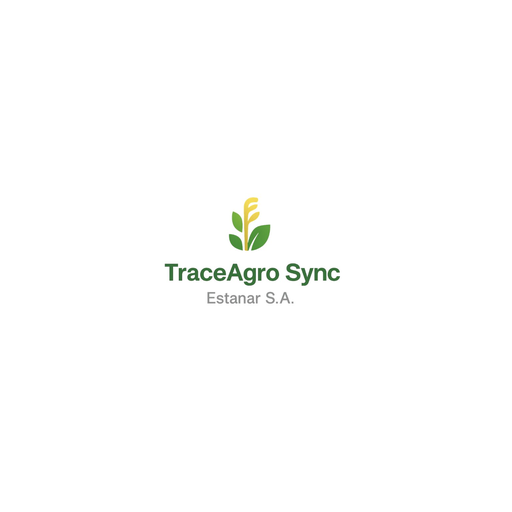
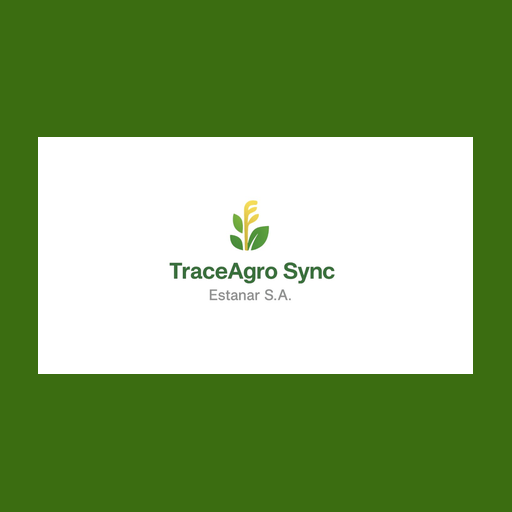
iconos fondo verde y actualizar cache

diff --git a/TraceAgro_AppsScript_v12.js b/TraceAgro_AppsScript_v12.js
@@ -1,0 +1,364 @@
+// TraceAgro Sync — Apps Script v12
+// Nuevo: sistema de usuarios con sheet individual por técnico
+// Acciones: register, login, write_cosecha, write_traslado_silo, read_cosecha, read_traslados,
+//           update_cosecha, next_asiento, update_traslado, next_asiento_traslado
+
+function doGet(e) {
+  return ContentService
+    .createTextOutput(JSON.stringify(handleRequest(e)))
+    .setMimeType(ContentService.MimeType.JSON);
+}
+function doPost(e) { return doGet(e); }
+
+function handleRequest(e) {
+  try {
+    const p = e.parameter;
+    if (!p.action) return { status: 'TraceAgro v12 OK' };
+
+    // ── Acciones de autenticación (usan sheet maestro) ──
+    if (p.action === 'register')  return registerUser(p);
+    if (p.action === 'login')     return loginUser(p);
+
+    // ── Acciones de datos (usan sheet del usuario via ssId) ──
+    if (p.action === 'write_cosecha')         return writeCosecha(p);
+    if (p.action === 'write_traslado_silo')   return writeTraslado(p);
+    if (p.action === 'read_cosecha')          return readCosecha(p);
+    if (p.action === 'read_traslados')        return readTraslados(p);
+    if (p.action === 'update_cosecha')        return updateCosecha(p);
+    if (p.action === 'next_asiento')          return nextAsiento(p);
+    if (p.action === 'update_traslado')       return updateTraslado(p);
+    if (p.action === 'next_asiento_traslado') return nextAsientoTraslado(p);
+    return { error: 'Acción desconocida: ' + p.action };
+  } catch(err) {
+    return { ok: false, error: err.message };
+  }
+}
+
+// ══════════════════════════════════════
+// USUARIOS — Registro y Login
+// ══════════════════════════════════════
+
+function getUsersSheet() {
+  const ss = SpreadsheetApp.getActiveSpreadsheet();
+  let sh = ss.getSheetByName('Usuarios');
+  if (!sh) {
+    sh = ss.insertSheet('Usuarios');
+    const headers = ['Nombre','Contraseña','SheetID','SheetURL','Fecha registro'];
+    const r = sh.getRange(1, 1, 1, headers.length);
+    r.setValues([headers]);
+    r.setBackground('#1a1a2e').setFontColor('#FFFFFF').setFontWeight('bold');
+    sh.setFrozenRows(1);
+    sh.setColumnWidths(1, headers.length, 180);
+  }
+  return sh;
+}
+
+function findUser(nombre) {
+  const sh = getUsersSheet();
+  const data = sh.getDataRange().getValues();
+  for (let i = 1; i < data.length; i++) {
+    if (String(data[i][0]).trim().toLowerCase() === nombre.trim().toLowerCase()) {
+      return { row: i + 1, nombre: String(data[i][0]).trim(), pass: String(data[i][1]), ssId: String(data[i][2]), url: String(data[i][3]) };
+    }
+  }
+  return null;
+}
+
+function registerUser(p) {
+  const nombre = (p.nombre || '').trim();
+  const pass = (p.pass || '').trim();
+  if (!nombre) return { ok: false, error: 'Nombre requerido' };
+  if (!pass || pass.length < 4) return { ok: false, error: 'La contraseña debe tener al menos 4 caracteres' };
+
+  // Verificar si ya existe
+  if (findUser(nombre)) {
+    return { ok: false, error: 'USUARIO_EXISTE', nombre };
+  }
+
+  // Buscar o crear carpeta "TraceAgro Sync" en el Drive
+  var folders = DriveApp.getFoldersByName('TraceAgro Sync');
+  var folder;
+  if (folders.hasNext()) {
+    folder = folders.next();
+  } else {
+    folder = DriveApp.createFolder('TraceAgro Sync');
+  }
+
+  // Crear nuevo Google Sheet para este técnico
+  const newSS = SpreadsheetApp.create('TraceAgro - ' + nombre);
+  const ssId = newSS.getId();
+  const ssUrl = newSS.getUrl();
+
+  // Mover el sheet a la carpeta TraceAgro Sync
+  var file = DriveApp.getFileById(ssId);
+  folder.addFile(file);
+  DriveApp.getRootFolder().removeFile(file);
+
+  // Renombrar la hoja por defecto
+  newSS.getSheets()[0].setName('Resumen');
+
+  // Guardar usuario en la hoja maestra
+  const sh = getUsersSheet();
+  sh.appendRow([nombre, pass, ssId, ssUrl, new Date().toISOString()]);
+
+  return { ok: true, nombre, ssId };
+}
+
+function loginUser(p) {
+  const nombre = (p.nombre || '').trim();
+  const pass = (p.pass || '').trim();
+  if (!nombre) return { ok: false, error: 'Nombre requerido' };
+  if (!pass) return { ok: false, error: 'Contraseña requerida' };
+
+  const user = findUser(nombre);
+  if (!user) return { ok: false, error: 'USUARIO_NO_EXISTE' };
+  if (user.pass !== pass) return { ok: false, error: 'PASS_INCORRECTA' };
+
+  return { ok: true, nombre: user.nombre, ssId: user.ssId };
+}
+
+// ══════════════════════════════════════
+// HELPERS
+// ══════════════════════════════════════
+
+function getUserSS(p) {
+  // Todas las acciones de datos reciben ssId para abrir el sheet del usuario
+  const ssId = p.ssId;
+  if (!ssId) throw new Error('Falta ssId — iniciá sesión de nuevo');
+  return SpreadsheetApp.openById(ssId);
+}
+
+function getSheet(ss, name, headers, color) {
+  let sh = ss.getSheetByName(name);
+  if (!sh) {
+    sh = ss.insertSheet(name);
+    const r = sh.getRange(1, 1, 1, headers.length);
+    r.setValues([headers]);
+    r.setBackground(color || '#3B6D11').setFontColor('#FFFFFF').setFontWeight('bold');
+    sh.setFrozenRows(1);
+    sh.setColumnWidths(1, headers.length, 120);
+  }
+  return sh;
+}
+
+// ══════════════════════════════════════
+// COSECHA
+// ══════════════════════════════════════
+
+function writeCosecha(p) {
+  const ss = getUserSS(p);
+  const camp = (p.campania || '').replace('/', '_');
+  const sheetName = 'C_' + p.campo + '-' + p.cultivo + '-' + camp;
+  const headers = ['Asiento','Fecha','Técnico','Lote','Has','Variedad','Contrato',
+    'Kg Húmedos','Humedad %','Kg Secos','Destino tipo','CP / Silo / Destino',
+    'Chofer','Embolso','Contratista'];
+  const sh = getSheet(ss, sheetName, headers, '#3B6D11');
+
+  const bg = p.destino === 'cam' ? '#FFFF99' : p.destino === 'silo' ? '#C6EFCE' : '#BDD7EE';
+  const fecha = (p.fecha || '').split('T')[0];
+  const cpSilo = p.cpSilo || '';
+  const asiento = p.asiento || '001';
+
+  // Para camiones: verificar que el CP no esté duplicado en cosecha ni en traslados
+  if (p.destino === 'cam' && cpSilo) {
+    const dataCos = sh.getDataRange().getValues();
+    const headersCos = dataCos[0].map(h => String(h).trim());
+    const idxCP   = headersCos.indexOf('CP / Silo / Destino');
+    const idxTec  = headersCos.indexOf('Técnico');
+    const idxAs   = headersCos.indexOf('Asiento');
+    for (let i = 1; i < dataCos.length; i++) {
+      if (String(dataCos[i][idxCP]).trim() === cpSilo &&
+          String(dataCos[i][idxTec]).trim() === p.tecnico) {
+        const asientoExistente = String(dataCos[i][idxAs]).trim() || '?';
+        return { ok: true, skipped: true, motivo: 'duplicado', cp: cpSilo, asientoExistente };
+      }
+    }
+    const trasladoName = 'T_' + p.campo + '-' + p.cultivo + '-' + camp;
+    const shT = ss.getSheetByName(trasladoName);
+    if (shT && shT.getLastRow() > 1) {
+      const dataT = shT.getDataRange().getValues();
+      const headersT = dataT[0].map(h => String(h).trim());
+      const idxCPT = headersT.indexOf('Carta de Porte');
+      const idxAsT = headersT.indexOf('Asiento');
+      for (let i = 1; i < dataT.length; i++) {
+        if (String(dataT[i][idxCPT]).trim() === cpSilo) {
+          const asientoExistente = String(dataT[i][idxAsT]).trim() || '?';
+          return { ok: false, error: 'CP_EN_TRASLADO', cp: cpSilo, asientoExistente };
+        }
+      }
+    }
+  }
+
+  sh.appendRow([
+    asiento, fecha, p.tecnico, p.lote,
+    parseFloat(p.has) || '',
+    p.variedad, p.contrato,
+    parseFloat(p.kgH) || 0,
+    parseFloat(p.hum) || '',
+    parseFloat(p.kgS) || 0,
+    p.destino, cpSilo,
+    p.chofer || '', p.embolso || '', p.contratista || ''
+  ]);
+  sh.getRange(sh.getLastRow(), 1, 1, headers.length).setBackground(bg);
+  return { ok: true, hoja: sheetName, fila: sh.getLastRow() };
+}
+
+function updateCosecha(p) {
+  const ss = getUserSS(p);
+  const camp = (p.campania || '').replace('/', '_');
+  const sheetName = 'C_' + p.campo + '-' + p.cultivo + '-' + camp;
+  const sh = ss.getSheetByName(sheetName);
+  if (!sh) return writeCosecha(p);
+
+  const asiento = p.asiento || '001';
+  const data = sh.getDataRange().getValues();
+  const headers0 = data[0].map(h => String(h).trim());
+  const idxAs = headers0.indexOf('Asiento');
+  for (let i = data.length - 1; i >= 1; i--) {
+    if (String(data[i][idxAs]).trim() === asiento) {
+      sh.deleteRow(i + 1);
+    }
+  }
+  return { ok: true, deleted: true, asiento };
+}
+
+function nextAsiento(p) {
+  const ss = getUserSS(p);
+  const camp = (p.campania || '').replace('/', '_');
+  const sheetName = 'C_' + p.campo + '-' + p.cultivo + '-' + camp;
+  const sh = ss.getSheetByName(sheetName);
+  if (!sh) return { ok: true, next: '001' };
+  const data = sh.getDataRange().getValues();
+  if (data.length < 2) return { ok: true, next: '001' };
+  const headers0 = data[0].map(h => String(h).trim());
+  const idxAs = headers0.indexOf('Asiento');
+  let max = 0;
+  data.slice(1).forEach(row => {
+    const n = parseInt(row[idxAs]) || 0;
+    if (n > max) max = n;
+  });
+  return { ok: true, next: String(max + 1).padStart(3, '0') };
+}
+
+// ══════════════════════════════════════
+// TRASLADOS
+// ══════════════════════════════════════
+
+function writeTraslado(p) {
+  const ss = getUserSS(p);
+  const camp = (p.campania || '').replace('/', '_');
+  const sheetName = 'T_' + p.campo + '-' + p.cultivo + '-' + camp;
+  const headers = ['Asiento','Fecha','Técnico','Silo de origen','Kg','Carta de Porte',
+    'Destino','Chofer','Contrato','Transportista'];
+  const sh = getSheet(ss, sheetName, headers, '#534AB7');
+
+  const fecha = (p.fecha || '').split('T')[0];
+  const asiento = p.asiento || '001';
+  const cp = p.cp || '';
+
+  if (cp) {
+    const cosechaName = 'C_' + p.campo + '-' + p.cultivo + '-' + camp;
+    const shC = ss.getSheetByName(cosechaName);
+    if (shC) {
+      const dataC = shC.getDataRange().getValues();
+      const headersC = dataC[0].map(h => String(h).trim());
+      const idxCP  = headersC.indexOf('CP / Silo / Destino');
+      const idxAsC = headersC.indexOf('Asiento');
+      for (let i = 1; i < dataC.length; i++) {
+        if (String(dataC[i][idxCP]).trim() === cp) {
+          const asientoExistente = String(dataC[i][idxAsC]).trim() || '?';
+          return { ok: false, error: 'CP_EN_COSECHA', cp, asientoExistente };
+        }
+      }
+    }
+    if (sh.getLastRow() > 1) {
+      const dataT = sh.getDataRange().getValues();
+      const headersT = dataT[0].map(h => String(h).trim());
+      const idxCPT = headersT.indexOf('Carta de Porte');
+      const idxAsT = headersT.indexOf('Asiento');
+      for (let i = 1; i < dataT.length; i++) {
+        if (String(dataT[i][idxCPT]).trim() === cp) {
+          const asientoExistente = String(dataT[i][idxAsT]).trim() || '?';
+          return { ok: true, skipped: true, motivo: 'duplicado', cp, asientoExistente };
+        }
+      }
+    }
+  }
+
+  sh.appendRow([
+    asiento, fecha, p.tecnico, p.silo,
+    parseFloat(p.kg) || 0,
+    cp, p.destino || '', p.chofer || '', p.contrato || '', p.transporte || ''
+  ]);
+  const row = sh.getLastRow();
+  sh.getRange(row, 1, 1, 10).setBackground(row % 2 === 0 ? '#EEEDFE' : '#FFFFFF');
+  return { ok: true, hoja: sheetName, fila: row };
+}
+
+function updateTraslado(p) {
+  const ss = getUserSS(p);
+  const camp = (p.campania || '').replace('/', '_');
+  const sheetName = 'T_' + p.campo + '-' + p.cultivo + '-' + camp;
+  const sh = ss.getSheetByName(sheetName);
+  if (!sh) return { ok: true, deleted: false };
+  const asiento = p.asiento || '001';
+  const data = sh.getDataRange().getValues();
+  const headers0 = data[0].map(h => String(h).trim());
+  const idxAs = headers0.indexOf('Asiento');
+  for (let i = data.length - 1; i >= 1; i--) {
+    if (String(data[i][idxAs]).trim() === asiento) sh.deleteRow(i + 1);
+  }
+  return { ok: true, deleted: true, asiento };
+}
+
+function nextAsientoTraslado(p) {
+  const ss = getUserSS(p);
+  const camp = (p.campania || '').replace('/', '_');
+  const sheetName = 'T_' + p.campo + '-' + p.cultivo + '-' + camp;
+  const sh = ss.getSheetByName(sheetName);
+  if (!sh) return { ok: true, next: '001' };
+  const data = sh.getDataRange().getValues();
+  if (data.length < 2) return { ok: true, next: '001' };
+  const headers0 = data[0].map(h => String(h).trim());
+  const idxAs = headers0.indexOf('Asiento');
+  let max = 0;
+  data.slice(1).forEach(row => {
+    const n = parseInt(row[idxAs]) || 0;
+    if (n > max) max = n;
+  });
+  return { ok: true, next: String(max + 1).padStart(3, '0') };
+}
+
+function readTraslados(p) {
+  const ss = getUserSS(p);
+  const camp = (p.campania || '').replace('/', '_');
+  const sheetName = 'T_' + p.campo + '-' + p.cultivo + '-' + camp;
+  const sh = ss.getSheetByName(sheetName);
+  if (!sh) return { ok: true, filas: [] };
+  const data = sh.getDataRange().getValues();
+  if (data.length < 2) return { ok: true, filas: [] };
+  const headers = data[0].map(h => String(h).trim());
+  const filas = data.slice(1).map(row => {
+    const obj = {};
+    headers.forEach((h, i) => obj[h] = row[i] !== '' ? row[i] : '');
+    return obj;
+  });
+  return { ok: true, hoja: sheetName, filas };
+}
+
+function readCosecha(p) {
+  const ss = getUserSS(p);
+  const camp = (p.campania || '').replace('/', '_');
+  const sheetName = 'C_' + p.campo + '-' + p.cultivo + '-' + camp;
+  const sh = ss.getSheetByName(sheetName);
+  if (!sh) return { ok: true, filas: [] };
+  const data = sh.getDataRange().getValues();
+  if (data.length < 2) return { ok: true, filas: [] };
+  const headers = data[0].map(h => String(h).trim());
+  const filas = data.slice(1).map(row => {
+    const obj = {};
+    headers.forEach((h, i) => obj[h] = row[i] !== '' ? row[i] : '');
+    return obj;
+  });
+  return { ok: true, hoja: sheetName, filas };
+}

diff --git a/sw.js b/sw.js
@@ -1,4 +1,4 @@
-const CACHE_NAME = 'traceagro-v11';
+const CACHE_NAME = 'traceagro-v12';
 const ASSETS = [
   './',
   './index.html',
